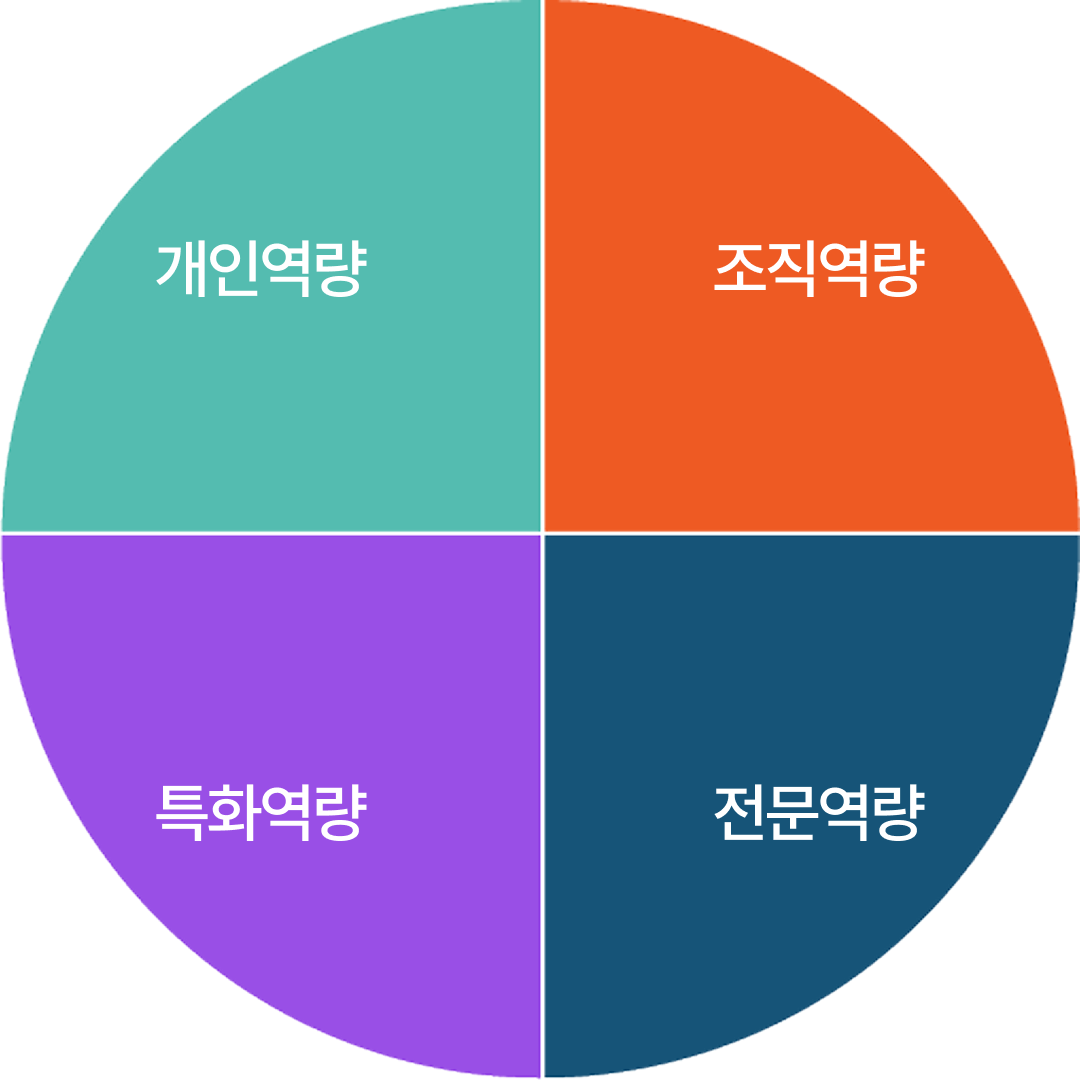
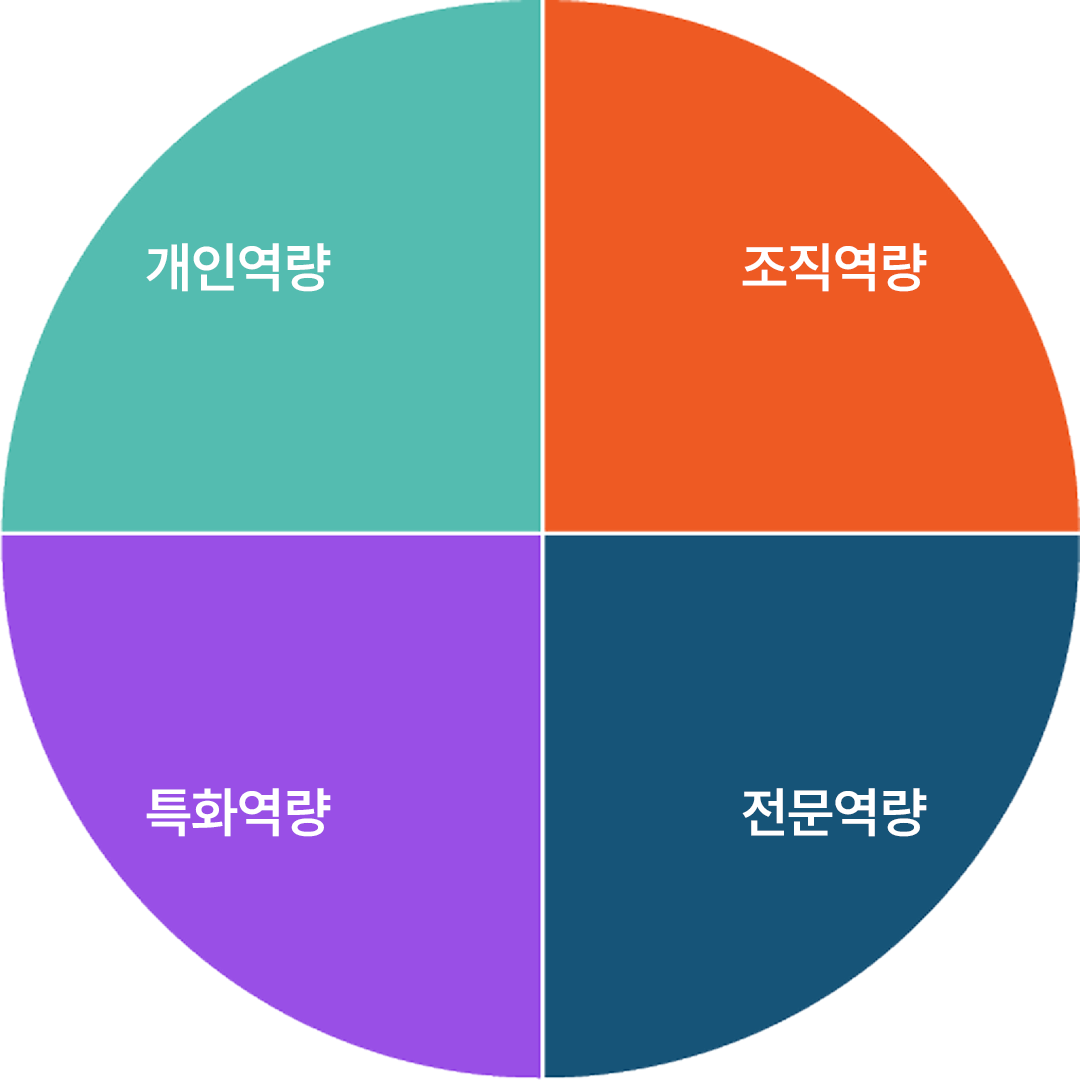
cont-section style edit

diff --git a/index.html b/index.html
@@ -175,7 +175,7 @@
 			<div class="sec sec4">
 				<img src="/images/shape4.svg" alt="전문역량">
 			</div>
-
+	
 			<img src="/images/img_cap3.png" alt="역량별 카테고리" class="round-bg-cap round-bg-cap3">
 			<img src="/images/img_cap2.png" alt="역량별 카테고리" class="round-bg-cap round-bg-cap2">
 			<img src="/images/img_cap1.png" alt="역량별 카테고리" class="round-bg-cap round-bg-cap1">
@@ -185,7 +185,111 @@
 				Capability Model
 			</div>
 		</div>
-
+		<script>
+			document.addEventListener("DOMContentLoaded", () => {
+				const txt2 = document.querySelector(".txt-wrap .txt2");
+				const contSection = document.querySelector(".cont-section"); // cont-section 요소 선택
+				const roundWraps = [
+					{ element: document.querySelector(".round-wrap1"), text: "Building Personal Capability" },
+					{ element: document.querySelector(".round-wrap2"), text: "Impacting Organizational Capability" },
+					{ element: document.querySelector(".round-wrap3"), text: "Developing Specialized Capability" },
+					{ element: document.querySelector(".round-wrap4"), text: "Developing Professional Capability" },
+				];
+	
+				let lastScrollY = window.scrollY; // 마지막 스크롤 위치 저장
+				let isScrolling = false; // 스크롤 이벤트 최적화를 위한 플래그
+				let currentText = "Capability Model"; // 현재 표시된 텍스트를 추적
+	
+				// Intersection Observer 설정
+				const observer = new IntersectionObserver(
+					(entries) => {
+						entries.forEach((entry) => {
+							const currentScrollY = window.scrollY; // 현재 스크롤 위치
+							const isScrollingDown = currentScrollY > lastScrollY; // 스크롤 방향 확인
+	
+							if (entry.isIntersecting) {
+								const targetWrap = roundWraps.find((wrap) => wrap.element === entry.target);
+								if (targetWrap && currentText !== targetWrap.text) {
+									// 텍스트가 이미 표시된 경우 변경하지 않음
+									currentText = targetWrap.text;
+	
+									// Fade-out 효과
+									txt2.style.transition = "opacity 0.5s ease-out";
+									txt2.style.opacity = 0;
+	
+									// 텍스트 변경 후 Fade-in 효과
+									setTimeout(() => {
+										txt2.textContent = targetWrap.text;
+										txt2.style.transition = "opacity 0.5s ease-in";
+										txt2.style.opacity = 1;
+									}, 500); // Fade-out 완료 후 텍스트 변경
+								}
+							} else {
+								// 요소가 뷰포트를 벗어날 때 처리 (스크롤 업)
+								if (!isScrollingDown) {
+									const previousWrapIndex = roundWraps.findIndex((wrap) => wrap.element === entry.target) - 1;
+									if (previousWrapIndex >= 0) {
+										const previousWrap = roundWraps[previousWrapIndex];
+										if (currentText !== previousWrap.text) {
+											// 텍스트가 이미 표시된 경우 변경하지 않음
+											currentText = previousWrap.text;
+	
+											// Fade-out 효과
+											txt2.style.transition = "opacity 0.5s ease-out";
+											txt2.style.opacity = 0;
+	
+											// 텍스트 변경 후 Fade-in 효과
+											setTimeout(() => {
+												txt2.textContent = previousWrap.text;
+												txt2.style.transition = "opacity 0.5s ease-in";
+												txt2.style.opacity = 1;
+											}, 500); // Fade-out 완료 후 텍스트 변경
+										}
+									}
+								}
+							}
+	
+							lastScrollY = currentScrollY; // 마지막 스크롤 위치 업데이트
+						});
+					},
+					{
+						root: null, // 뷰포트를 기준으로 관찰
+						threshold: 0.5, // 요소가 뷰포트의 절반 이상 보일 때 트리거
+					}
+				);
+	
+				// 각 round-wrap 요소를 관찰
+				roundWraps.forEach((wrap) => observer.observe(wrap.element));
+	
+				// 스크롤 이벤트 추가: 최상단에 도달했을 때 기본 텍스트로 변경
+				window.addEventListener("scroll", () => {
+					if (!isScrolling) {
+						isScrolling = true;
+						requestAnimationFrame(() => {
+							const contSectionTop = contSection.getBoundingClientRect().top;
+	
+							if (contSectionTop >= 0 && currentText !== "Capability Model") {
+								// 텍스트가 이미 'Capability Model'인 경우 변경하지 않음
+								currentText = "Capability Model";
+	
+								// Fade-out 효과
+								txt2.style.transition = "opacity 0.5s ease-out";
+								txt2.style.opacity = 0;
+	
+								// 텍스트 변경 후 Fade-in 효과
+								setTimeout(() => {
+									txt2.textContent = "Capability Model";
+									txt2.style.transition = "opacity 0.5s ease-in";
+									txt2.style.opacity = 1;
+								}, 500); // Fade-out 완료 후 텍스트 변경
+							}
+	
+							isScrolling = false; // 스크롤 처리 완료
+						});
+					}
+				});
+			});
+		</script>
 	</section>
 
 
@@ -433,9 +537,11 @@
 						txtWrap.style.gap = "140px";
 						txt2.style.width = "auto";
 					} else {
-						txtWrap.style.gap = "clamp(260px, 30vw, 600px)";
+						txtWrap.style.gap = "clamp(260px, 30vw, 400px)";
 						txt1.style.marginLeft = "clamp(-110px, -20vw, -100px)"; 
-						txt2.style.width = "clamp(200px, 30vw, 487px)";
+						txt2.style.width = "32vw";
+						txt2.style.minWidth = "200px";
+						txt2.style.maxWidth = "350px";
 					}
 					txt1.style.marginLeft = "0";  // 첫 번째 텍스트의 margin-left를 0으로 설정
 					
@@ -450,7 +556,7 @@
 					if (!isSticky) {
 						isSticky = true; // sticky 상태 시작
 
-						// round-bg-cap1 이미지가 2초 후에 나타나기 시작
+						// round-bg-cap1 이미지가 1초 후에 나타나기 시작
 						setTimeout(() => {
 							roundBgCaps[2].style.transition = "opacity 1s ease-in-out"; // 부드러운 전환 효과 추가
 							roundBgCaps[2].style.opacity = 1; // 투명도를 1로 변경
@@ -460,19 +566,19 @@
 								sec.style.transition = "opacity 1s ease-in-out";
 								sec.style.opacity = 1;
 							});
-						}, 1200); // 1.2초 뒤에 나타나기 시작
+						}, 800); // 1.2초 뒤에 나타나기 시작
 
 						// round-bg-cap2 이미지가 round-bg-cap1의 투명도 변화 완료 후 1초 뒤에 나타나기 시작
 						setTimeout(() => {
 							roundBgCaps[1].style.transition = "opacity 1s ease-in-out"; // 부드러운 전환 효과 추가
 							roundBgCaps[1].style.opacity = 1; // 투명도를 1로 변경
-						}, 1600); // round-bg-cap1의 투명도 변화 후 1초 뒤
+						}, 1100); // round-bg-cap1의 투명도 변화 후 1초 뒤
 
 						// round-bg-cap3 이미지가 round-bg-cap2의 투명도 변화 완료 후 1초 뒤에 나타나기 시작
 						setTimeout(() => {
 							roundBgCaps[0].style.transition = "opacity 1s ease-in-out"; // 부드러운 전환 효과 추가
 							roundBgCaps[0].style.opacity = 1; // 투명도를 1로 변경
-						}, 2000); // round-bg-cap2의 투명도 변화 후 1초 뒤
+						}, 1300); // round-bg-cap2의 투명도 변화 후 1초 뒤
 					}
 
 					// round-al-wrap이 중앙에 도달하면 .txt 요소들의 opacity를 0으로 변경
@@ -515,6 +621,7 @@
 <script>
   document.addEventListener("DOMContentLoaded", () => {
     const txt2 = document.querySelector(".txt-wrap .txt2");
+    const contSection = document.querySelector(".cont-section"); // cont-section 요소 선택
     const roundWraps = [
       { element: document.querySelector(".round-wrap1"), text: "Building Personal Capability" },
       { element: document.querySelector(".round-wrap2"), text: "Impacting Organizational Capability" },
@@ -522,51 +629,46 @@
       { element: document.querySelector(".round-wrap4"), text: "Developing Professional Capability" },
     ];
 
-    let lastScrollY = window.scrollY; // 마지막 스크롤 위치 저장
+    let currentText = "Capability Model"; // 현재 표시된 텍스트를 추적
+    let isAnimating = false; // 애니메이션 중인지 확인하는 플래그
+
+    // 텍스트 변경 함수 (페이드 효과 포함)
+    const changeTextWithFade = (newText) => {
+      if (currentText === newText || isAnimating) return; // 동일한 텍스트로 변경하지 않음, 애니메이션 중일 때도 실행하지 않음
+
+      isAnimating = true; // 애니메이션 시작
+      // Fade-out 효과
+      txt2.style.transition = "opacity 0.5s ease-out";
+      txt2.style.opacity = 0;
+
+      // 텍스트 변경 후 Fade-in 효과
+      setTimeout(() => {
+        txt2.textContent = newText;
+        txt2.style.transition = "opacity 0.5s ease-in";
+        txt2.style.opacity = 1;
+
+        setTimeout(() => {
+          isAnimating = false; // 애니메이션 종료
+          currentText = newText; // 현재 텍스트 업데이트
+        }, 500); // Fade-in 완료 후 플래그 해제
+      }, 500); // Fade-out 완료 후 텍스트 변경
+    };
 
     // Intersection Observer 설정
     const observer = new IntersectionObserver(
       (entries) => {
         entries.forEach((entry) => {
-          const currentScrollY = window.scrollY; // 현재 스크롤 위치
-          const isScrollingDown = currentScrollY > lastScrollY; // 스크롤 방향 확인
-
           if (entry.isIntersecting) {
-            const targetWrap = roundWraps.find((wrap) => wrap.element === entry.target);
-            if (targetWrap) {
-              // Fade-out 효과
-              txt2.style.transition = "opacity 0.5s ease-out";
-              txt2.style.opacity = 0;
-
-              // 텍스트 변경 후 Fade-in 효과
-              setTimeout(() => {
-                txt2.textContent = targetWrap.text;
-                txt2.style.transition = "opacity 0.5s ease-in";
-                txt2.style.opacity = 1;
-              }, 500); // Fade-out 완료 후 텍스트 변경
-            }
-          } else {
-            // 요소가 뷰포트를 벗어날 때 처리 (스크롤 업)
-            if (!isScrollingDown) {
-              const previousWrapIndex = roundWraps.findIndex((wrap) => wrap.element === entry.target) - 1;
-              if (previousWrapIndex >= 0) {
-                const previousWrap = roundWraps[previousWrapIndex];
-
-                // Fade-out 효과
-                txt2.style.transition = "opacity 0.5s ease-out";
-                txt2.style.opacity = 0;
-
-                // 텍스트 변경 후 Fade-in 효과
-                setTimeout(() => {
-                  txt2.textContent = previousWrap.text;
-                  txt2.style.transition = "opacity 0.5s ease-in";
-                  txt2.style.opacity = 1;
-                }, 500); // Fade-out 완료 후 텍스트 변경
+            // cont-section이 뷰포트에 처음 들어왔을 때 'Capability Model'로 설정
+            if (entry.target === contSection) {
+              changeTextWithFade("Capability Model");
+            } else {
+              const targetWrap = roundWraps.find((wrap) => wrap.element === entry.target);
+              if (targetWrap) {
+                changeTextWithFade(targetWrap.text);
               }
             }
           }
-
-          lastScrollY = currentScrollY; // 마지막 스크롤 위치 업데이트
         });
       },
       {
@@ -575,8 +677,18 @@
       }
     );
 
-    // 각 round-wrap 요소를 관찰
+    // 각 round-wrap 요소와 cont-section을 관찰
+    observer.observe(contSection);
     roundWraps.forEach((wrap) => observer.observe(wrap.element));
+
+    // 스크롤 이벤트 추가: 최상단에 도달했을 때 기본 텍스트로 변경
+    window.addEventListener("scroll", () => {
+      const contSectionTop = contSection.getBoundingClientRect().top;
+
+      if (contSectionTop >= 0) {
+        changeTextWithFade("Capability Model");
+      }
+    });
   });
 </script>
 

diff --git a/css/main.css b/css/main.css
@@ -93,10 +93,10 @@ header.fixed { background: #000; border-bottom: 1px solid #000; }
 
 .cont-section { position: relative; width: 100%; height: auto; }
 
-.cont-section .txt-wrap {position: sticky; width: 100%; height:80vh; top:0; font-size: clamp(20px, 3vw, 48px); font-weight: 600; line-height: 72px; letter-spacing: -1.68px; display: flex; justify-content: center; align-items: center; gap: 15px; background-image: url('/images/bg_cont.jpg'); background-position: center; background-repeat: no-repeat; background-size: cover; transition: gap 0.5s ease-in-out;}
+.cont-section .txt-wrap {position: sticky; width: 100%; height:80vh; top:0; font-size: clamp(20px, 3vw, 34px); font-weight: 600; line-height: 72px; letter-spacing: -1.68px; display: flex; justify-content: center; align-items: center; gap: 15px; background-image: url('/images/bg_cont.jpg'); background-position: center; background-repeat: no-repeat; background-size: cover; transition: gap 0.5s ease-in-out;}
 .cont-section .txt-wrap .txt {transition: opacity 0.5s ease-in-out; min-inline-size: max-content;}
 .cont-section .txt-wrap .txt1 {margin-left: 26vw; margin: 0; transition: all 0.5s ease-in-out;}
-.cont-section .txt-wrap .txt2 {width: clamp(50%, 40vw, 500px); width: auto; transition: all 0.5s ease-in-out;}
+.cont-section .txt-wrap .txt2 {width: clamp(50%, 40vw, 500px); width: auto; transition: all 0.5s ease-in-out; text-wrap-mode: nowrap;}
 
 .cont-section .round-wrap1 { position: sticky; width: 100%; height: 80vh; top:0; display: flex; align-items: center; justify-content: center;}
 
@@ -121,15 +121,15 @@ header.fixed { background: #000; border-bottom: 1px solid #000; }
 .cont-section .round-al-wrap .sec3 {background: #F8F3FF;}
 .cont-section .round-al-wrap .sec4 {background: #EEFBFF;}
 
-.cont-section .round-al-wrap .sec img { position: absolute; width: 15vw; max-width: 300px; opacity: .25; top: 50%; left: 3vw; transform: translate(0, -50%);}
+.cont-section .round-al-wrap .sec img { position: absolute; width: 15vw; max-width: 250px; opacity: .25; top: 50%; left: 3vw; transform: translate(0, -50%);}
 
 .cont-section .round-al-wrap .sec:nth-child(even) img {left: unset; right: 3vw;}
 
-.cont-section .round-al-wrap img.round-bg-cap {position: absolute; width: 33vw; max-width: 540px; min-width: 190px; top: 50%; left: 50%; transform: translate(-50%, -50%); opacity: 0;}
+.cont-section .round-al-wrap img.round-bg-cap {position: absolute; width: 33vw; max-width: 445px; min-width: 190px; top: 50%; left: 50%; transform: translate(-50%, -50%); opacity: 0;}
 
-.cont-section .round-al-wrap img.round-bg-cap2 {width: 60vw; max-width: 880px; min-width: 300px;}
+.cont-section .round-al-wrap img.round-bg-cap2 {width: 60vw; max-width: 770px; min-width: 300px;}
 
-.cont-section .round-al-wrap img.round-bg-cap3 {width: 65vw; max-width: 943px; min-width: 335px;}
+.cont-section .round-al-wrap img.round-bg-cap3 {width: 65vw; max-width: 850px; min-width: 335px;}
 
 .cont-section .round-al-wrap .round-al { position: absolute; top: 50%; left: 50%; transform: translate(-50%, -50%); width: 16vw; height: 16vw; max-width: 250px; max-height: 250px; min-width: 100px; min-height: 100px; background: #fff; border-radius: 100%; display: flex; justify-content: center; align-items: center; text-align: center; font-size: clamp(14px, 2vw, 26px); font-weight: 600; line-height: clamp(20px, 3vw, 37px); letter-spacing: -1.68px; box-shadow: 0px 3px 100px 0px rgba(0, 0, 0, 0.15);}
 
